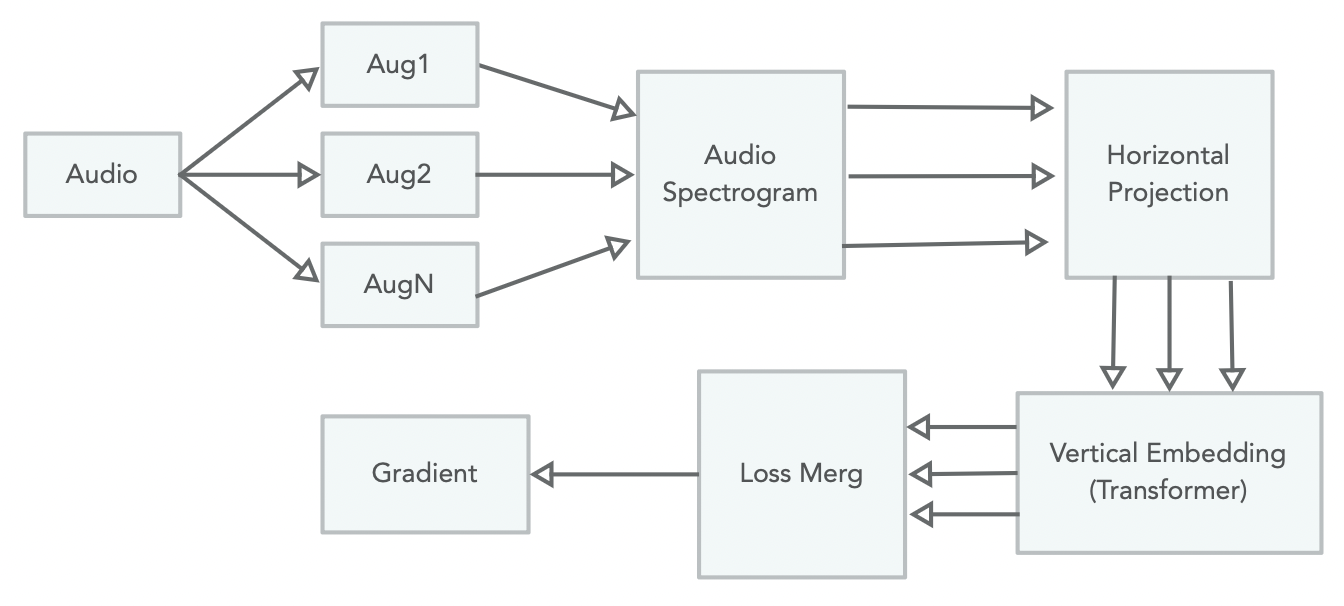
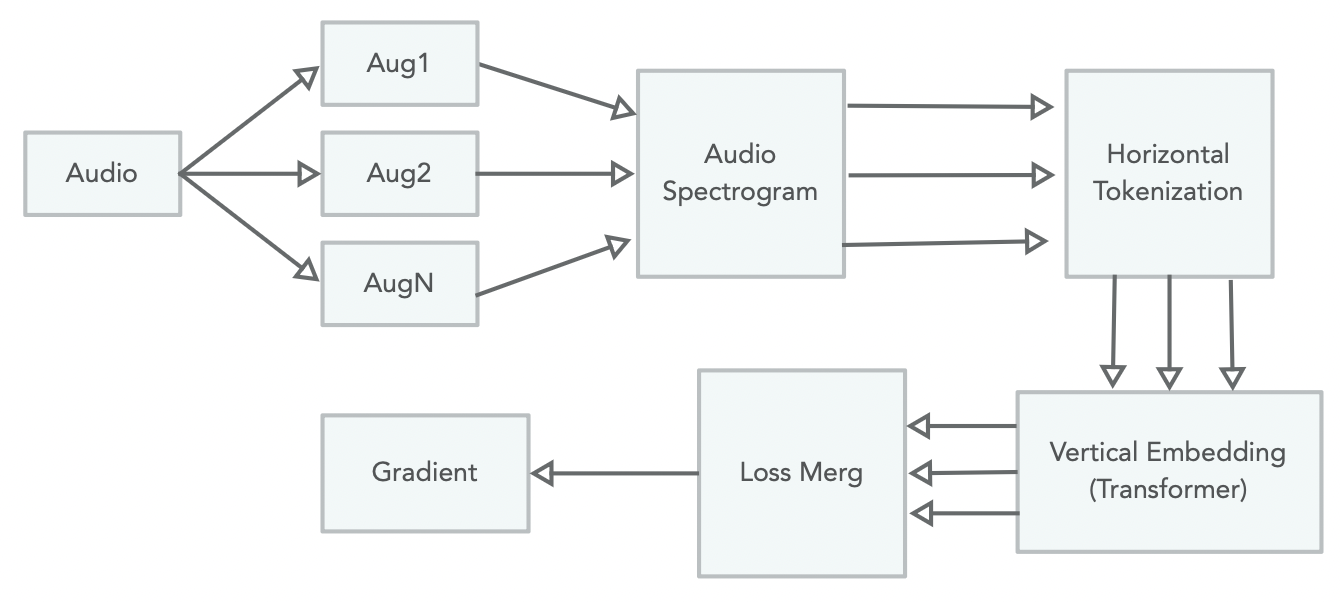
change comments

diff --git a/README.md b/README.md
@@ -1,6 +1,6 @@
 # Augmentation-based Multiview Audio Transformer (AMAuT) Framework for Audio Classification
 ![Figure](./img/Full-arch.png)
-Foundational models such as [SSAST](https://doi.org/10.1609/aaai.v36i10.21315), [EAT](https://doi.org/10.48550/arXiv.2401.03497), [HuBERT](https://doi.org/10.1109/TASLP.2021.3122291), [Qwen-Audio](https://doi.org/10.48550/arXiv.2311.07919), and [Audio Flamingo](https://doi.org/10.48550/arXiv.2402.01831) contribute to state-of-the-art classification performance in several well-known audio classification datasets. However, these models require a fixed sample rate with limited length options in input audio when pretrained weights are used, which limits their reusability. To address the issue, we propose **A**ugmentation-based **M**ultiview **Au**dio **T**ransformer (AMAuT), an alternative audio classification model that does not require pre-trained model weights, a specific sample rate, or a specific audio length. Specifically, AMAuT adopts a Transformer architecture, but innovatively combines audio Mel-spectrogram with 1D tokenization, a new 1D CNN bottleneck prior to Transformer embedding, and two class tokens sandwiching audio embeddings for classification. AMAuT is trained by aggregating prediction losses based on multiview augmentations of the same input audio, which provides less noisy gradients for updating model weights compared to conventional sequential augmentations. AMAuT adopts model agonestic test-time augmentation and test-time adaptation $(TTA)^2$ at inference to address the issue of robustness and potential data distribution shift. These strategies of model design, training, and inference work synergistically, where experimental results show that AMAuT is comparable to and sometimes outperforms the state-of-the-art models on multiple datasets, including [AudioMNIST](https://github.com/soerenab/AudioMNIST/tree/master), [SpeechCommands V1](https://research.google/blog/launching-the-speech-commands-dataset/), [SpeechCommands V2](https://research.google/blog/launching-the-speech-commands-dataset/), [VocalSound](https://sls.csail.mit.edu/downloads/vocalsound/), and [CochlScene](https://github.com/cochlearai/cochlscene).
+Foundational models such as [SSAST](https://doi.org/10.1609/aaai.v36i10.21315), [EAT](https://doi.org/10.48550/arXiv.2401.03497), [HuBERT](https://doi.org/10.1109/TASLP.2021.3122291), [Qwen-Audio](https://doi.org/10.48550/arXiv.2311.07919), and [Audio Flamingo](https://doi.org/10.48550/arXiv.2402.01831) contribute to state-of-the-art classification performance in several well-known audio classification datasets. However, these models require a fixed sample rate with limited length options in input audio when pretrained weights are used, which limits their reusability. To address the issue, we propose \textbf{A}ugmentation-based \textbf{M}ultiview \textbf{Au}dio \textbf{T}ransformer (AMAuT), which abandons pre-training and does not require a specific sample rate or audio length. Specifically, AMAuT adopts a Transformer architecture, but uses a new 1D CNN bottleneck to tokenize audio Mel-spectrogram only along the time dimension to obtain Transformer embeddings, which are then sandwiched between two class tokens for classification. AMAuT is trained by aggregating prediction losses based on multiview augmentations of the same input audio, which improves the model's robustness compared to conventional sequential augmentations and single-view augmentation. AMAuT adopts model agonistic test-time augmentation and test-time adaptation $(TTA)^2$ at inference to address the issue of robustness and potential data distribution shift. These strategies of model design, training, and inference work synergistically, where experimental results show that AMAuT is comparable to and sometimes outperforms the state-of-the-art models on multiple datasets, including [AudioMNIST](https://github.com/soerenab/AudioMNIST/tree/master), [SpeechCommands V1](https://research.google/blog/launching-the-speech-commands-dataset/), [SpeechCommands V2](https://research.google/blog/launching-the-speech-commands-dataset/), [VocalSound](https://sls.csail.mit.edu/downloads/vocalsound/), and [CochlScene](https://github.com/cochlearai/cochlscene). 
 
 ## Project Structure
 + **AuT**: the Augmentation-based Multiview Audio Transformer framework
